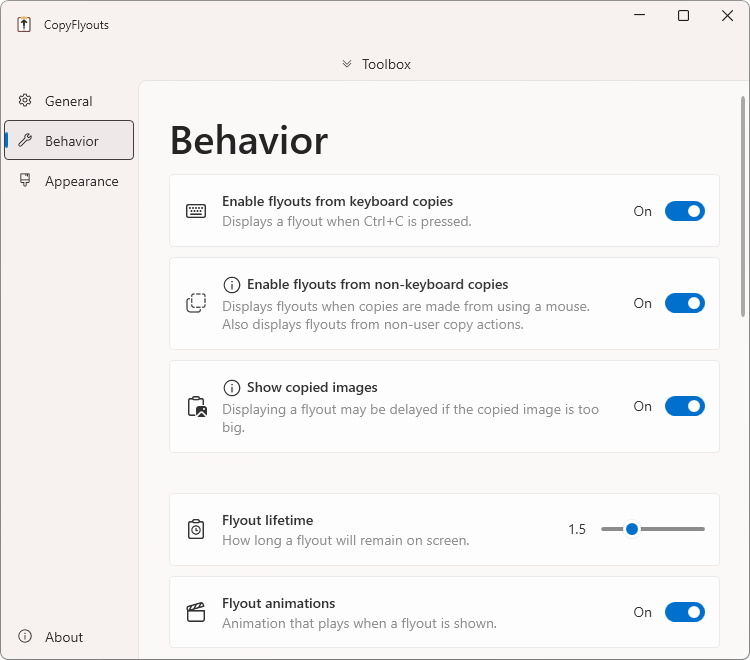
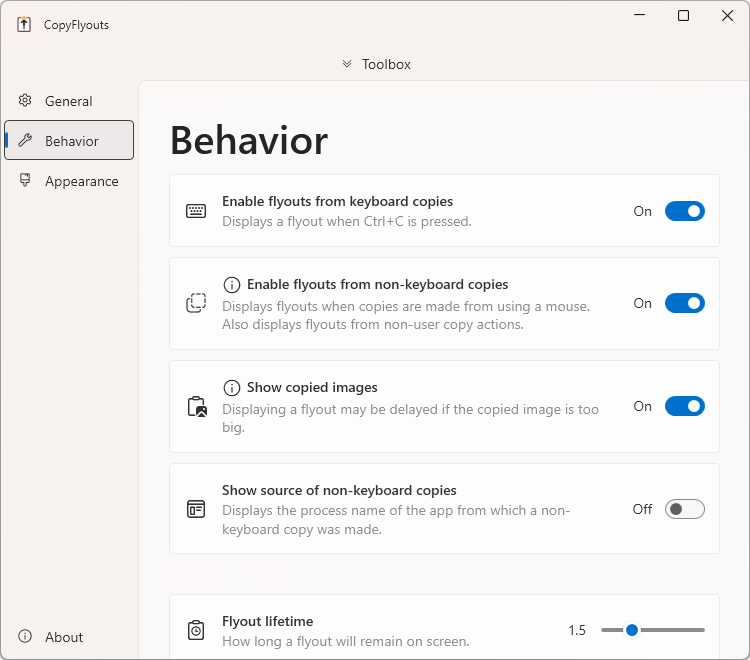
Update readme for fadeout animations

diff --git a/README.md b/README.md
@@ -39,8 +39,7 @@ Flyouts can be displayed from copies not done through the keyboard, including co
 
 CopyFlyouts works with files and images!
 
-![Image showing a flyout with file paths](/Assets/Presentation/FilesExample.png)  
-![Image showing a flyout with an image](/Assets/Presentation/ImageExample.png)
+![Gif showing image and files copy attempts](/Assets/Presentation/ImageAndFilesCopy.gif)
 
 Both the appearance and behavior of CopyFlyouts is customizable via the settings.
 
@@ -52,3 +51,4 @@ Other useful features of CopyFlyouts are:
 - ability to start minimized on system startup
 - ability to minimize to the system tray
 - portability to removable drives while retaining settings
+- ability to show which process triggered a copy
